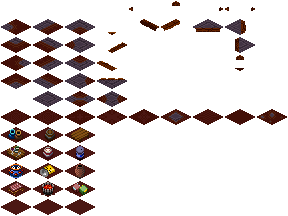
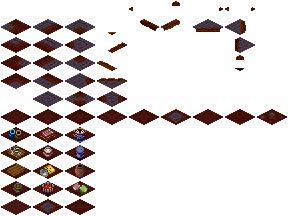
Testing different values for flower generation (x4)

diff --git a/web/script/environment/world.js b/web/script/environment/world.js
@@ -166,7 +166,7 @@ World.prototype.crawlMap = function() {
             for(var fKey in flowerNeighbors) { if (!flowerNeighbors.hasOwnProperty(fKey)) continue;
                 var fNeighbor = this.map[flowerNeighbors[fKey]];
                 if(!fNeighbor || fNeighbor.style != 'grass') {
-                    //valid = false;
+                    valid = false;
                     break;
                 }
             }
@@ -174,22 +174,22 @@ World.prototype.crawlMap = function() {
         } while(safety < 1000 && (grid.style != 'grass' || !valid));
         if(safety == 1000) continue;
         grid.style = 'flowers';
-        var spread = util.randomIntRange(1,4);
-        for(var s = 0; s < spread; s++) {
-            var canSpread = false;
-            var spreadX = grid.position.x+util.randomIntRange(-1,1), 
-                spreadY = grid.position.y+util.randomIntRange(-1,1);
-            var spreadGrid = this.map[spreadX+':'+spreadY];
-            var spreadNeighbors = geometry.get8Neighbors(spreadGrid.grid);
-            for(var sKey in spreadNeighbors) { if (!spreadNeighbors.hasOwnProperty(sKey)) continue;
-                var sNeighbor = this.map[spreadNeighbors[sKey]];
-                if(!sNeighbor || (sNeighbor.style != 'grass' && sNeighbor.style != 'flowers')) {
-                    canSpread = false;
-                    break;
-                }
-            }
-            if(canSpread) spreadGrid.style = 'flowers';
-        }
+        // var spread = util.randomIntRange(1,4);
+        // for(var s = 0; s < spread; s++) {
+        //     var canSpread = false;
+        //     var spreadX = grid.position.x+util.randomIntRange(-1,1), 
+        //         spreadY = grid.position.y+util.randomIntRange(-1,1);
+        //     var spreadGrid = this.map[spreadX+':'+spreadY];
+        //     var spreadNeighbors = geometry.get8Neighbors(spreadGrid.grid);
+        //     for(var sKey in spreadNeighbors) { if (!spreadNeighbors.hasOwnProperty(sKey)) continue;
+        //         var sNeighbor = this.map[spreadNeighbors[sKey]];
+        //         if(!sNeighbor || (sNeighbor.style != 'grass' && sNeighbor.style != 'flowers')) {
+        //             canSpread = false;
+        //             break;
+        //         }
+        //     }
+        //     if(canSpread) spreadGrid.style = 'flowers';
+        // }
     }
 };
 
